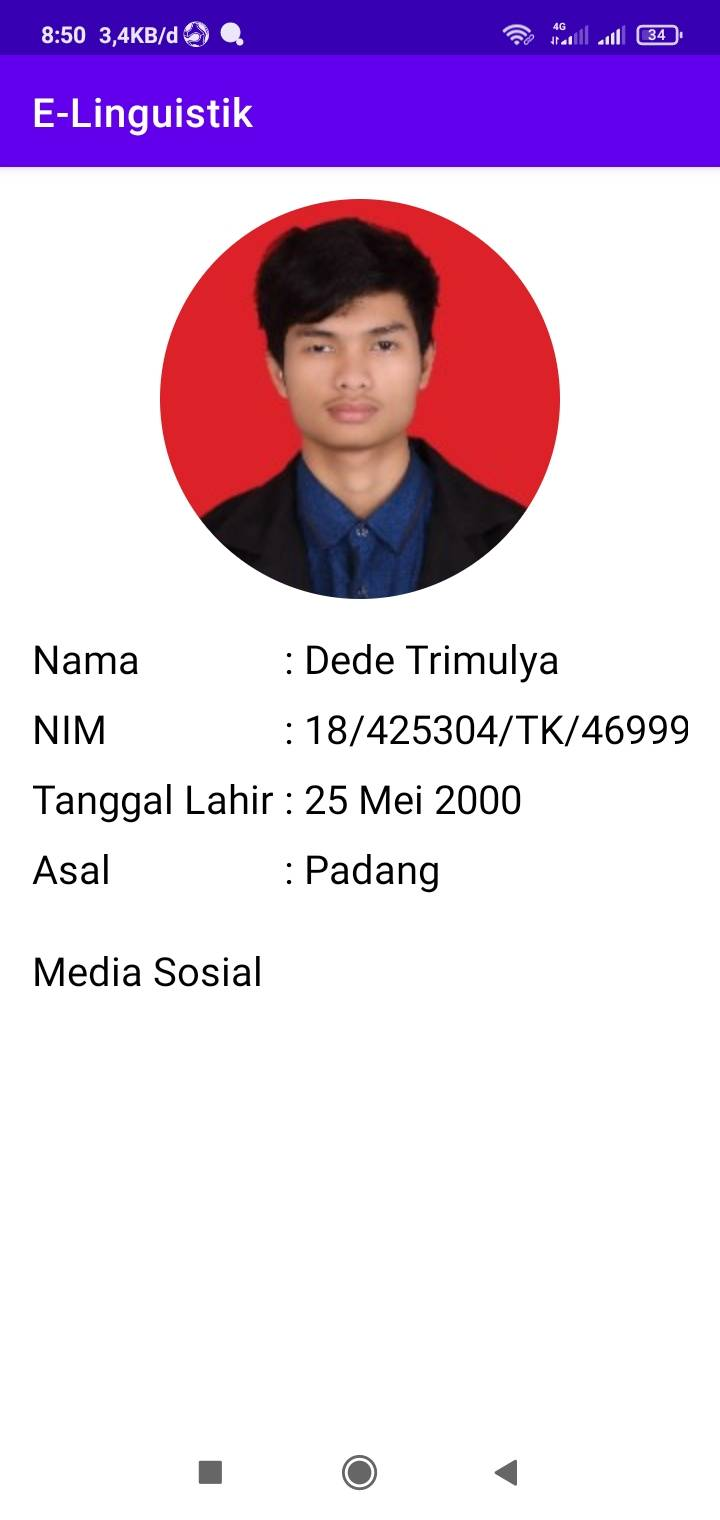
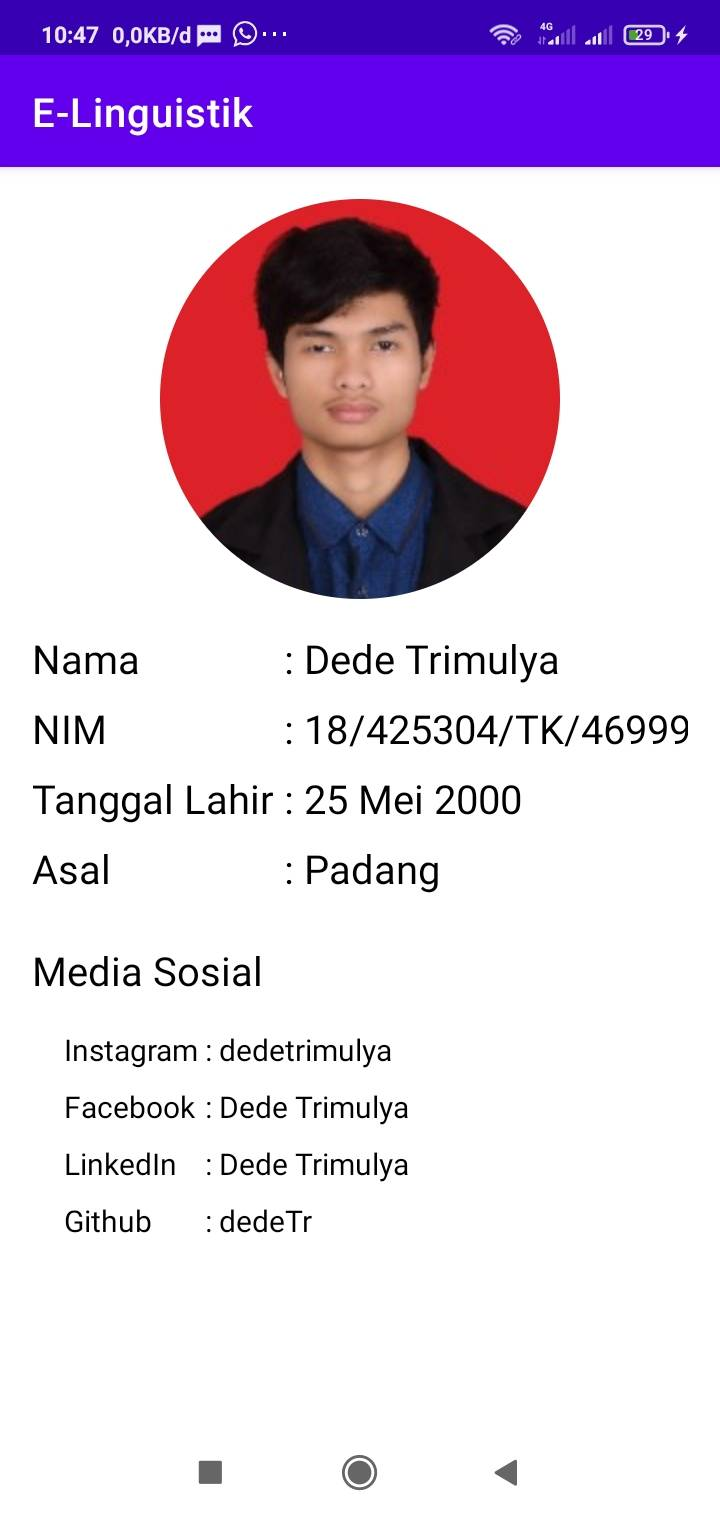
add lifecycle, update code, and update documentation

diff --git a/E-linguistik/app/src/main/java/com/example/e_linguistik/ui/home/HomeFragment.kt b/E-linguistik/app/src/main/java/com/example/e_linguistik/ui/home/HomeFragment.kt
@@ -13,6 +13,10 @@ import com.example.e_linguistik.R
 class HomeFragment : Fragment() {
 
     private lateinit var homeViewModel: HomeViewModel
+    private lateinit var tvWordtoday: TextView
+    private lateinit var tvTransWordToday: TextView
+    private lateinit var tvKbbiToday: TextView
+    private lateinit var tvTransKbbiToday: TextView
 
     override fun onCreateView(
             inflater: LayoutInflater,
@@ -22,11 +26,32 @@ class HomeFragment : Fragment() {
         homeViewModel =
                 ViewModelProvider(this).get(HomeViewModel::class.java)
         val root = inflater.inflate(R.layout.fragment_home, container, false)
+        tvWordtoday = root.findViewById(R.id.tv_wordtoday)
+        tvTransWordToday = root.findViewById(R.id.tv_transwordtoday)
+        tvKbbiToday = root.findViewById(R.id.tv_kbbitoday)
+        tvTransKbbiToday = root.findViewById(R.id.tv_transkbbiwordtoday)
         /*
         val textView: TextView = root.findViewById(R.id.text_home)
         homeViewModel.text.observe(viewLifecycleOwner, Observer {
             textView.text = it
         })*/
         return root
+    }
+
+    override fun onResume() {
+        super.onResume()
+        val vocab = arrayOf("Father","Mother","Children","Uncle","Aunt")
+        val transVocab = arrayOf("Ayah","Ibu","Anak-anak","Paman","Bibi")
+        val kbbi = arrayOf("Gunting","Pena","Pensil","Penghapus","Penggaris")
+        val transKbbi = arrayOf("perkakas untuk memotong kain (rambut dan sebagainya)",
+                        "alat untuk menulis dengan tinta, dibuat dari baja dan sebagainya yang runcing dan belah",
+                        "alat tulis berupa kayu kecil bulat berisi arang keras",
+                        "alat untuk menghapus tulisan pada papan tulis dan sebagainya",
+                        "alat untuk membuat garis")
+        val ranNumb = (0..5).random()
+        tvWordtoday.text = vocab[ranNumb]
+        tvTransWordToday.text = transVocab[ranNumb]
+        tvKbbiToday.text = kbbi[ranNumb]
+        tvTransKbbiToday.text = transKbbi[ranNumb]
     }
 }

diff --git a/E-linguistik/app/src/main/java/com/example/e_linguistik/ui/aboutme/BiografiViewModel.kt b/E-linguistik/app/src/main/java/com/example/e_linguistik/ui/aboutme/BiografiViewModel.kt
@@ -1,13 +1,12 @@
 package com.example.e_linguistik.ui.aboutme
 
 import androidx.lifecycle.ViewModel
-import com.example.e_linguistik.BioModel
-import com.example.e_linguistik.Biografi
+import com.example.e_linguistik.model.Biografi
+import com.example.e_linguistik.data.BioData
 
 class BiografiViewModel : ViewModel() {
-    private var bioModel: BioModel = BioModel()
 
-    private var listDataBio: ArrayList<Biografi> = bioModel.addData()
+    lateinit var listDataBio: ArrayList<Biografi>
 
     lateinit var detailNama: String
     lateinit var detailNim: String
@@ -17,6 +16,9 @@ class BiografiViewModel : ViewModel() {
     lateinit var detaiSosmed: Array<String>
 
     fun getBioDetail(index: Int){
+        val list = ArrayList<Biografi>()
+        list.addAll(BioData.listData)
+        listDataBio = list
         val detailBio = listDataBio[index]
 
         detailNama = detailBio.name
@@ -27,41 +29,4 @@ class BiografiViewModel : ViewModel() {
         detaiSosmed = detailBio.sosmed
     }
 
-    /*
-    private val _nama = MutableLiveData<String>().apply {
-        value = detailNama
-    }
-
-    val val_nama: LiveData<String> = _nama
-
-    private val _nim = MutableLiveData<String>().apply {
-        value = detailNim
-    }
-
-    val val_nim: LiveData<String> = _nim
-
-    private val _asal = MutableLiveData<String>().apply {
-        value = detailAsal
-    }
-
-    val val_asal: LiveData<String> = _asal
-
-    private val _ttl = MutableLiveData<String>().apply {
-        value = detailTtl
-    }
-
-    val val_ttl: LiveData<String> = _ttl
-
-    private val _foto = MutableLiveData<Int>().apply {
-        value = detailFoto
-    }
-
-    val val_foto: LiveData<Int> = _foto
-
-    private val _sosmed = MutableLiveData<Array<String>>().apply {
-        value = detaiSosmed
-    }
-
-    val val_sosmed: LiveData<Array<String>> = _sosmed
-    */
 }

diff --git a/E-linguistik/app/src/main/java/com/example/e_linguistik/ui/aboutme/DetailBiografi.kt b/E-linguistik/app/src/main/java/com/example/e_linguistik/ui/aboutme/DetailBiografi.kt
@@ -4,6 +4,7 @@ import androidx.appcompat.app.AppCompatActivity
 import android.os.Bundle
 import android.widget.ImageView
 import android.widget.TextView
+import android.widget.Toast
 import androidx.lifecycle.ViewModelProvider
 import com.bumptech.glide.Glide
 import com.bumptech.glide.request.RequestOptions
@@ -26,17 +27,30 @@ class DetailBiografi : AppCompatActivity() {
         var nim: TextView = findViewById(R.id.tv_nim)
         var asal: TextView = findViewById(R.id.tv_asal)
         var ttl: TextView = findViewById(R.id.tv_ttl)
+        var ig: TextView = findViewById(R.id.tv_ig)
+        var fb: TextView = findViewById(R.id.tv_fb)
+        var linkedin: TextView = findViewById(R.id.tv_linkedin)
+        var github: TextView = findViewById(R.id.tv_github)
 
         nama.text = ": "  + biografiViewModel.detailNama
         nim.text = ": " + biografiViewModel.detailNim
         asal.text = ": " + biografiViewModel.detailAsal
         ttl.text = ": " + biografiViewModel.detailTtl
+        ig.text = ": " + biografiViewModel.detaiSosmed[0]
+        fb.text = ": " + biografiViewModel.detaiSosmed[1]
+        linkedin.text = ": " + biografiViewModel.detaiSosmed[2]
+        github.text = ": " + biografiViewModel.detaiSosmed[3]
 
         Glide.with(this)
                 .load(biografiViewModel.detailFoto)
                 .apply(RequestOptions().override(200,200))
                 .into(image)
 
+    }
+
+    override fun onDestroy() {
+        Toast.makeText(this, "Jangan lupa kunjungi sosial media kami", Toast.LENGTH_SHORT).show()
+        super.onDestroy()
     }
 
     companion object{

diff --git a/E-linguistik/app/src/main/java/com/example/e_linguistik/data/BioData.kt b/E-linguistik/app/src/main/java/com/example/e_linguistik/data/BioData.kt
@@ -1,11 +1,11 @@
 package com.example.e_linguistik.data
 
-import com.example.e_linguistik.Biografi
+import com.example.e_linguistik.model.Biografi
 import com.example.e_linguistik.R
 import java.util.ArrayList
 
 object BioData {
-    private val nameMember = arrayOf("Luqman Rofif Muntashie",
+    private val nameMember = arrayOf("Luqman Rofif M",
                             "Taufan Bagus Grahita",
                             "Dede Trimulya")
 

diff --git a/E-linguistik/app/src/main/java/com/example/e_linguistik/model/Biografi.kt b/E-linguistik/app/src/main/java/com/example/e_linguistik/model/Biografi.kt
@@ -1,4 +1,4 @@
-package com.example.e_linguistik
+package com.example.e_linguistik.model
 
 data class Biografi(
     var name: String = "",
